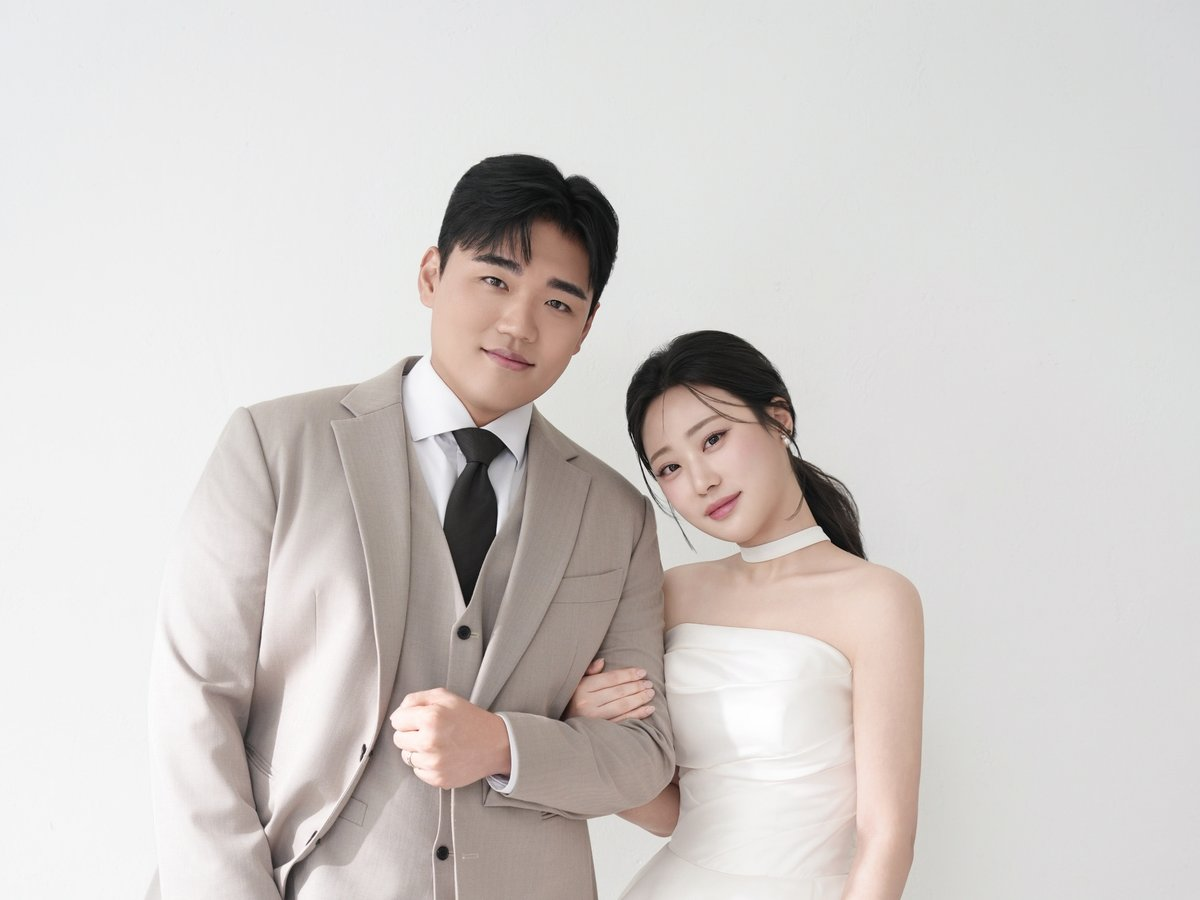
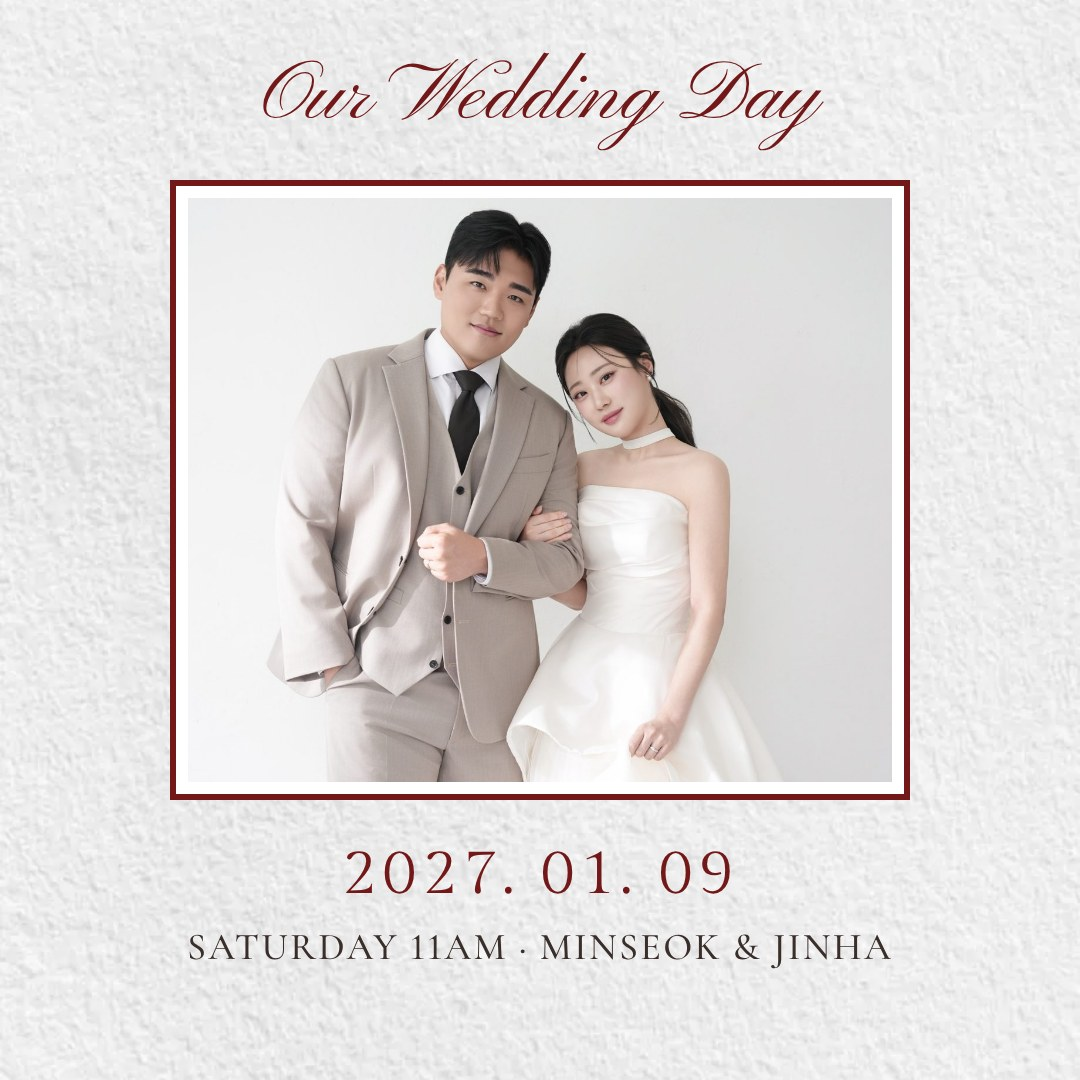
design: 카카오톡 공유용 초대장 이미지(1:1)로 교체
Claude-Session: https://claude.ai/code/session_01DcRmgQ1t9hdmfFSQSQYUob

diff --git a/wedding/index.html b/wedding/index.html
@@ -11,8 +11,8 @@
 <meta property="og:type" content="website">
 <meta property="og:url" content="https://ourweddingday-270109.netlify.app/">
 <meta property="og:image" content="https://ourweddingday-270109.netlify.app/img/og.jpg">
-<meta property="og:image:width" content="1200">
-<meta property="og:image:height" content="900">
+<meta property="og:image:width" content="1080">
+<meta property="og:image:height" content="1080">
 <meta name="theme-color" content="#721819">
 <link rel="stylesheet" href="https://cdn.jsdelivr.net/gh/orioncactus/pretendard@v1.3.9/dist/web/static/pretendard.min.css">
 <link rel="preconnect" href="https://fonts.googleapis.com">
@@ -1405,8 +1405,8 @@
           title: `${groom.name} ♥ ${bride.name} 결혼합니다`,
           description: `${kst.getUTCFullYear()}년 ${p2(kst.getUTCMonth() + 1)}월 ${p2(kst.getUTCDate())}일 ${day}요일 ${p2(kst.getUTCHours())}:${p2(kst.getUTCMinutes())}시`,
           imageUrl: url + 'img/og.jpg',
-          imageWidth: 1200,
-          imageHeight: 900,
+          imageWidth: 1080,
+          imageHeight: 1080,
           link: { mobileWebUrl: url, webUrl: url },
         },
         buttons: [
